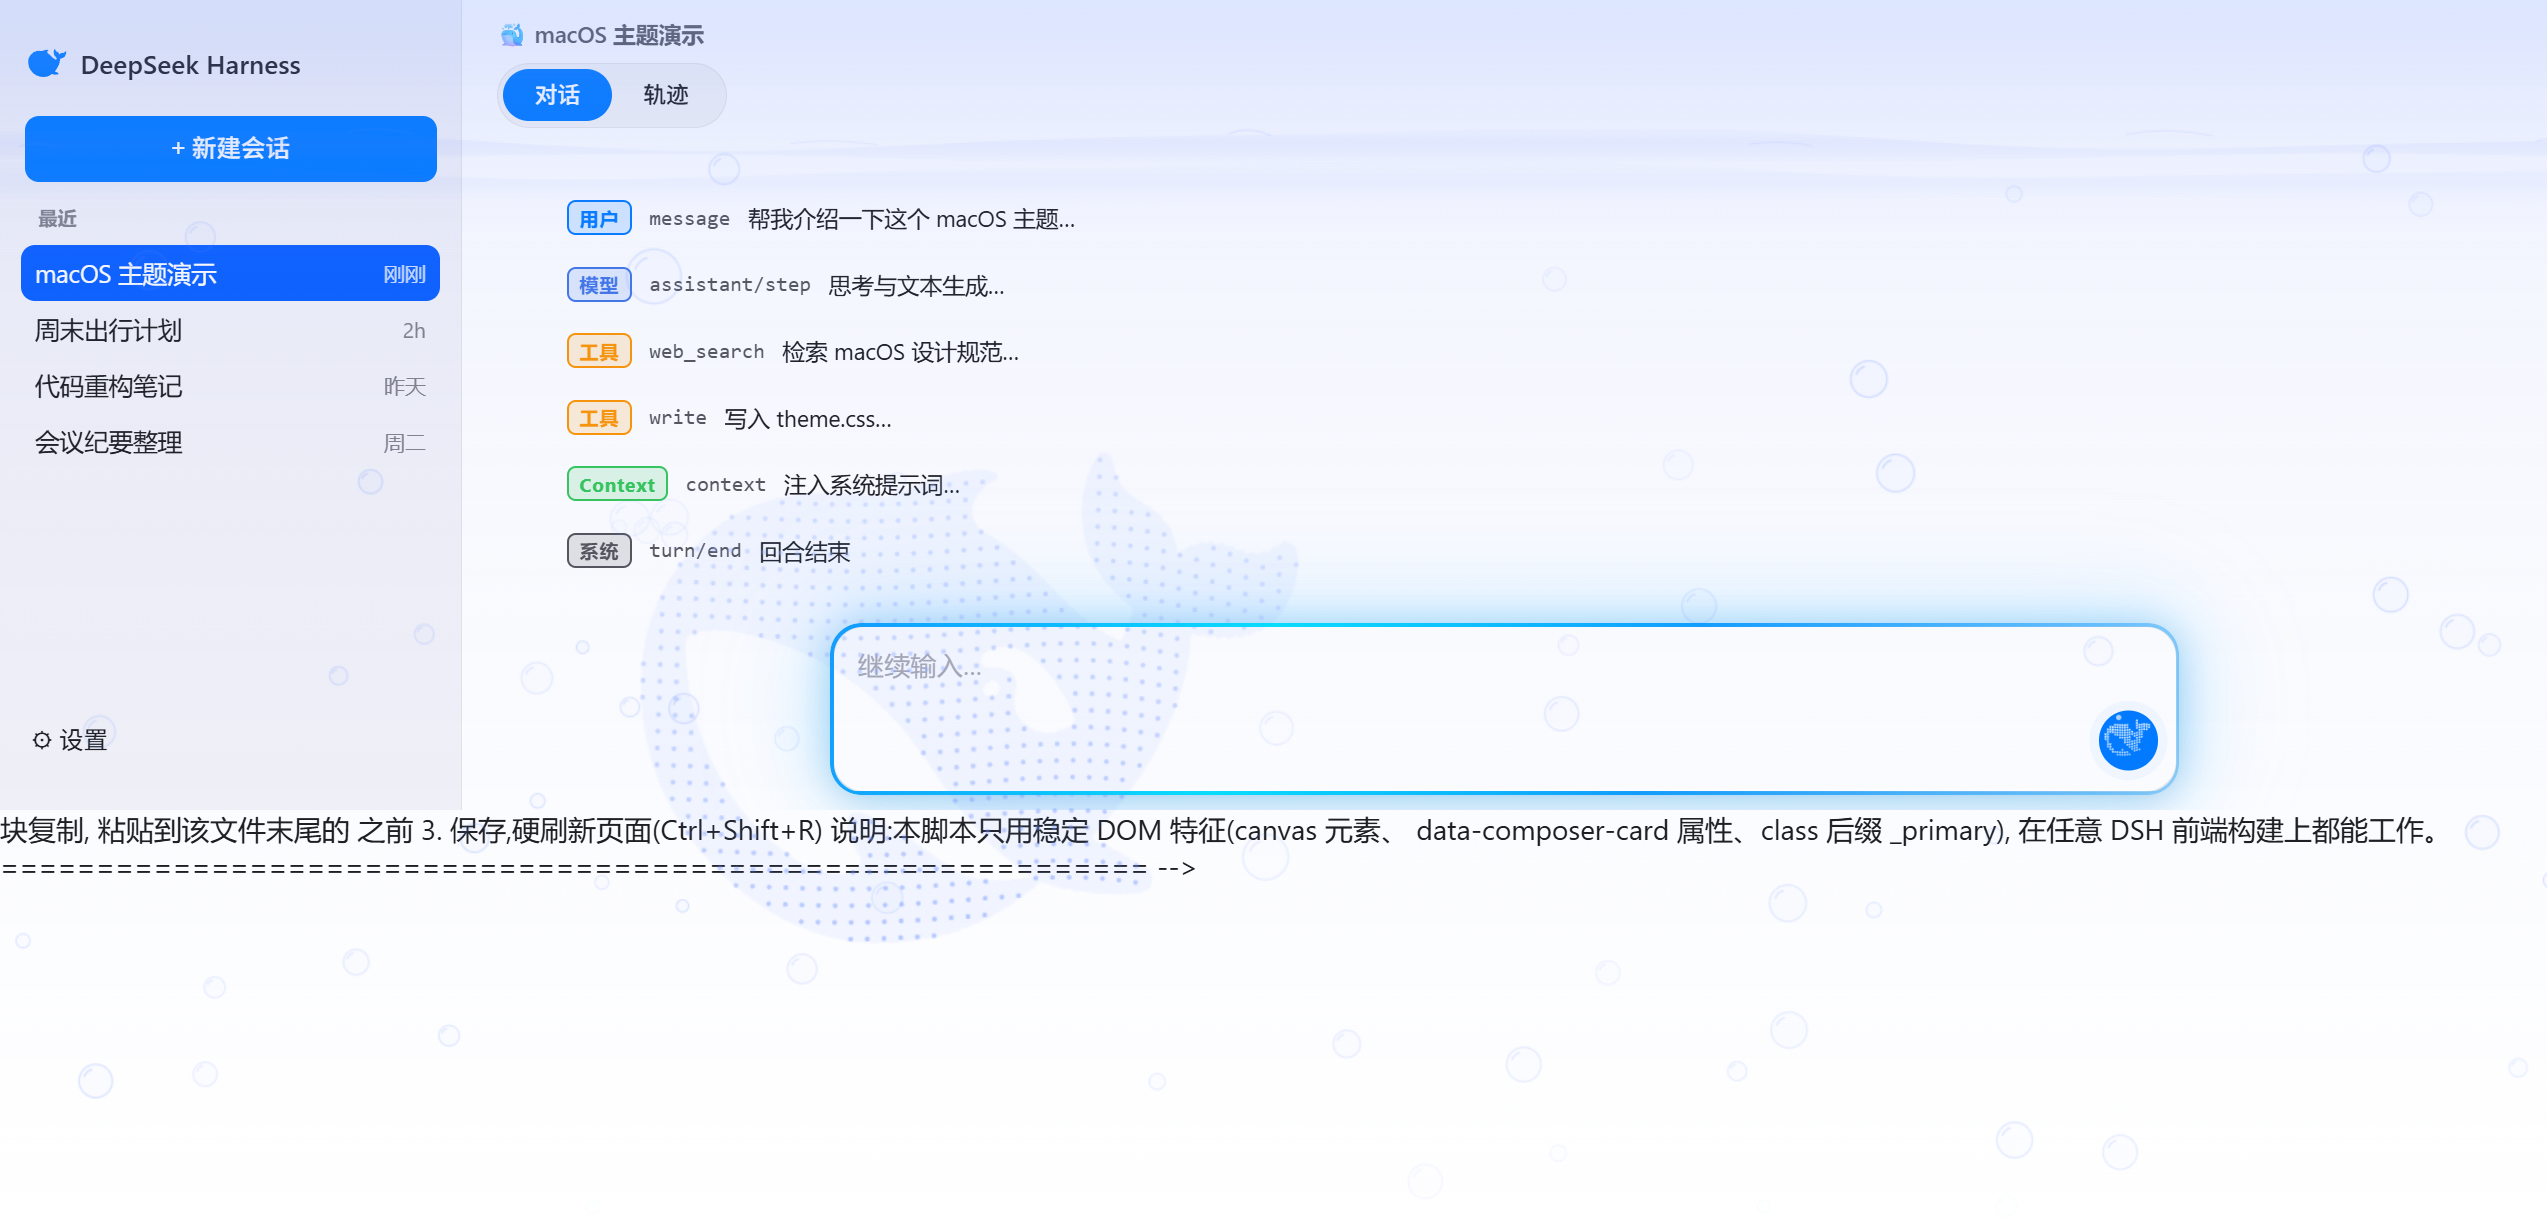
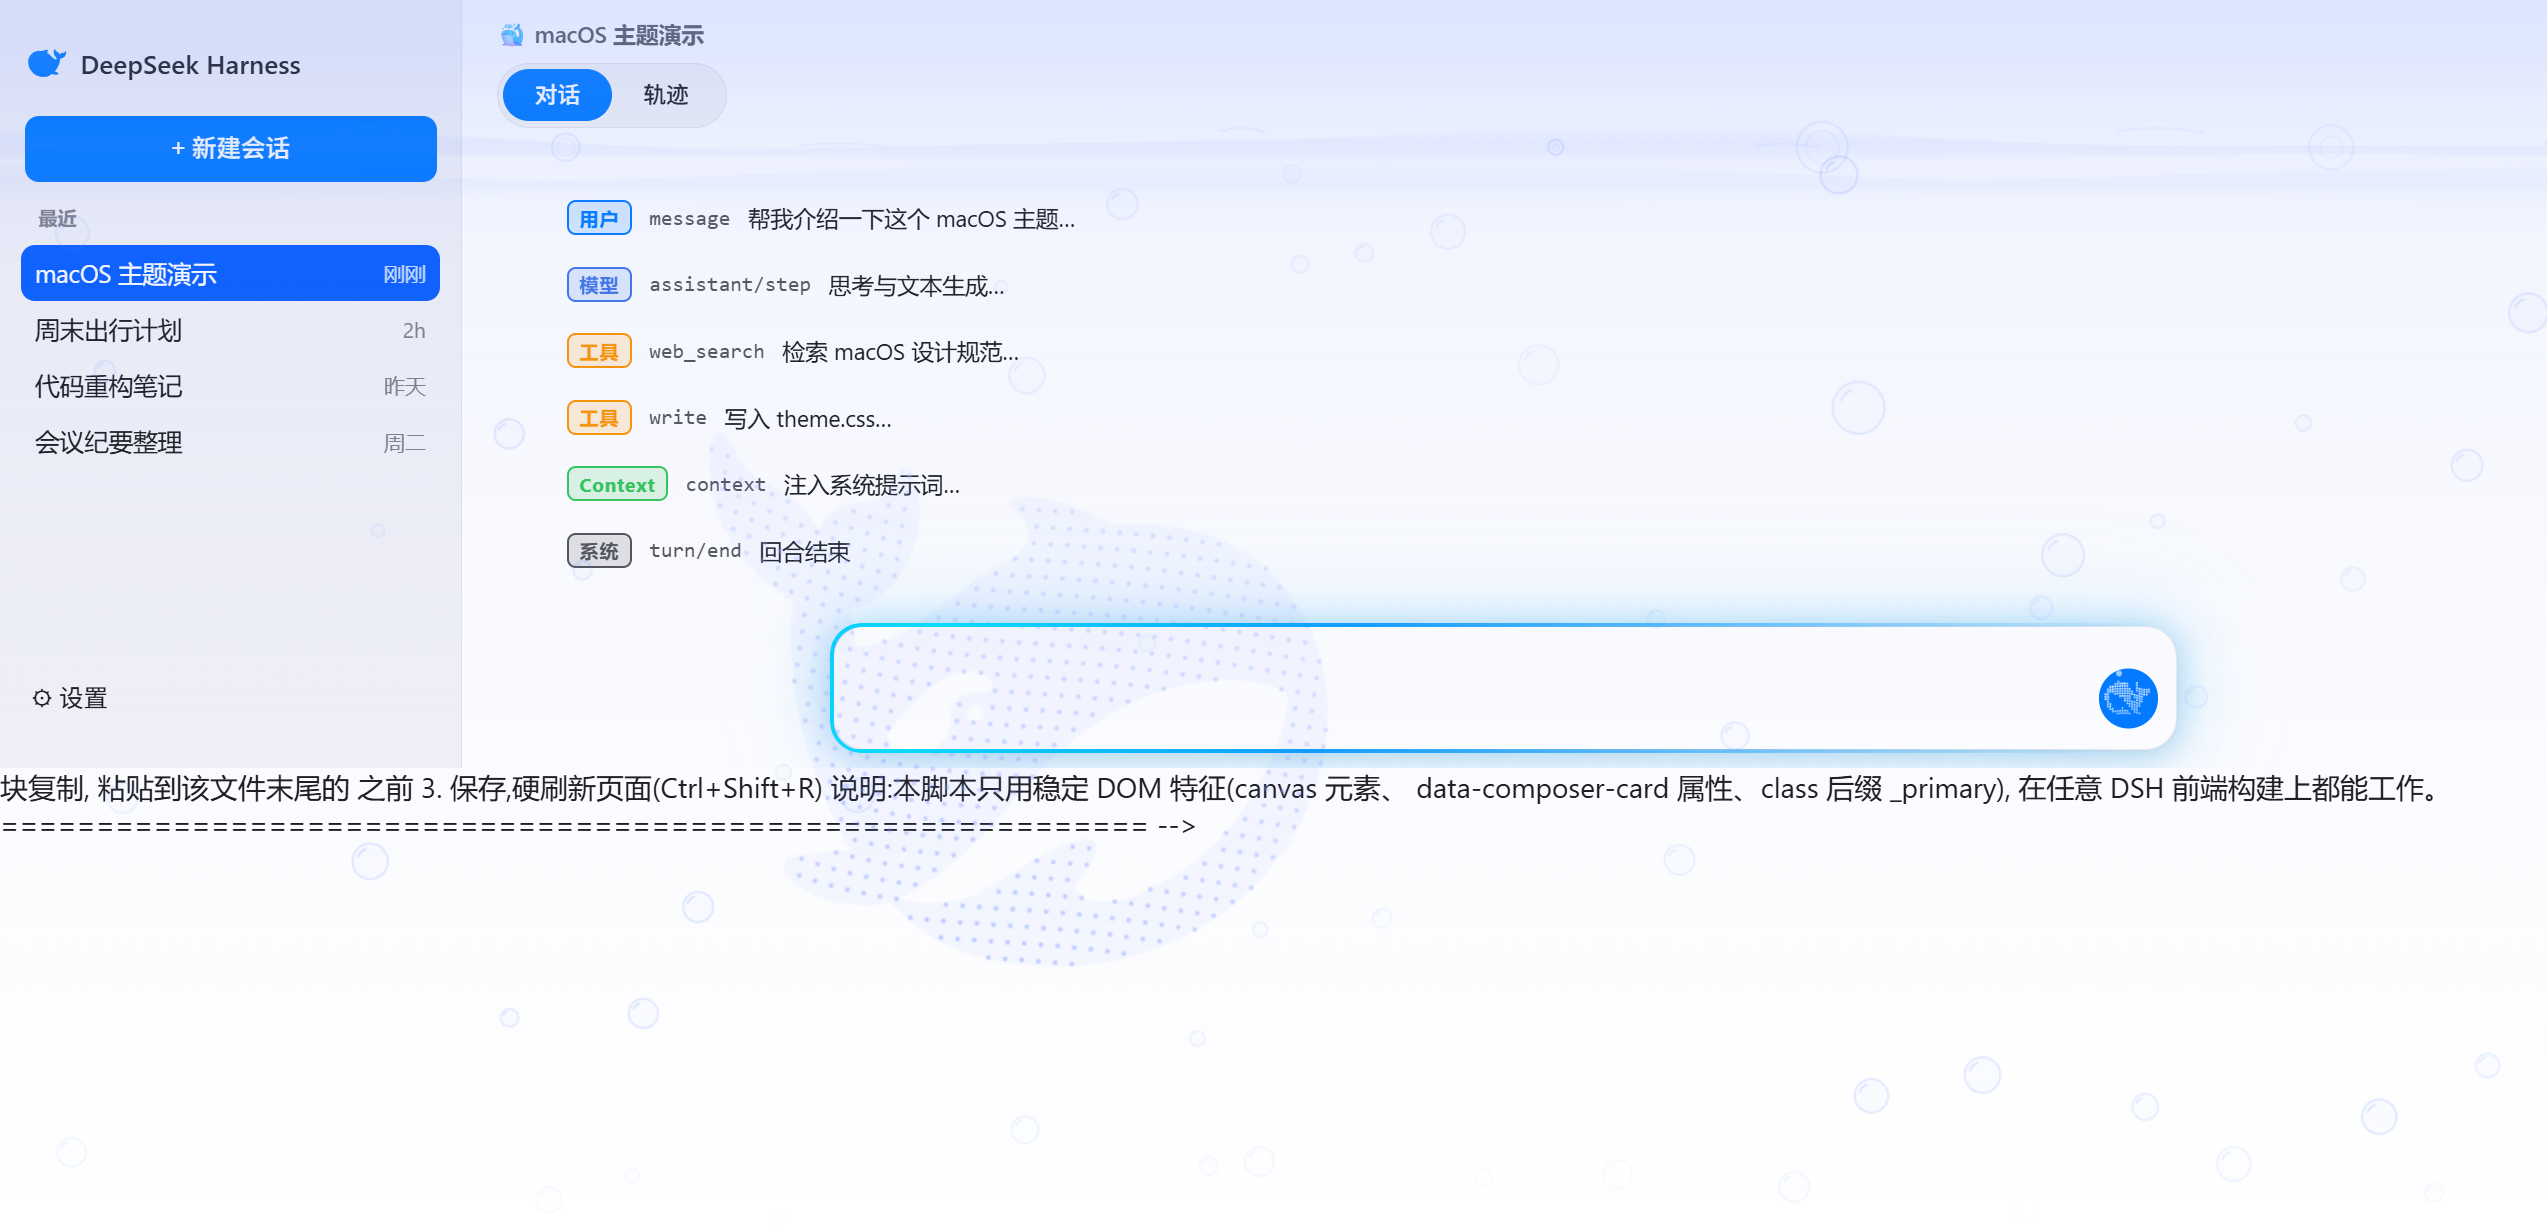
Retake light shot without agent overlay; add three button states (idle/typing/running)

Changed region(s): [[0.0, 0.4955, 0.9615, 0.7433], [0.3102, 0.4955, 0.4032, 0.5575]]

diff --git a/demo/preview.html b/demo/preview.html
@@ -138,13 +138,13 @@
           <div class="demo-traj-row"><span class="Y0dWHa_kindTag tag-sys">系统</span><span class="nm">turn/end</span><span style="flex:1;overflow:hidden;text-overflow:ellipsis;white-space:nowrap">回合结束</span></div>
         </div>
       </div>
-      <!-- 输入框(运行态:停止图标 → 触发喷水+水母发光) -->
+      <!-- 输入框(状态由 ?btn=idle|typing|running 切换,默认 running) -->
       <div class="demo-composer">
         <div class="uV2eYG_card" data-composer-card>
-          <div class="demo-placeholder">继续输入…</div>
+          <div class="demo-placeholder" id="demo-composer-text"></div>
           <div class="demo-row">
             <span></span>
-            <button type="button" class="uV2eYG_primary" aria-label="停止">
+            <button type="button" class="uV2eYG_primary" id="demo-send-btn" aria-label="停止">
               <svg viewBox="0 0 16 16" width="16" height="16" aria-hidden="true"><rect x="3" y="3" width="10" height="10" rx="3" fill="currentColor"/></svg>
             </button>
           </div>
@@ -180,7 +180,7 @@
   </div>
 </div>
 <script>
-/* 视图/主题切换:?dark=1 深色;?view=settings|traj */
+/* 视图/主题切换:?dark=1 深色;?view=settings|traj;?btn=idle|typing|running 按钮状态 */
 (function () {
   var q = new URLSearchParams(location.search);
   if (q.get('dark') === '1') {
@@ -193,6 +193,20 @@
   var settings = document.getElementById('view-settings');
   if (v === 'traj') { chat.classList.add('hidden'); traj.classList.remove('hidden'); }
   if (v === 'settings') { settings.classList.remove('hidden'); }
+  var b = q.get('btn');
+  var btnEl = document.getElementById('demo-send-btn');
+  var textEl = document.getElementById('demo-composer-text');
+  if (b === 'idle' || b === 'typing') {
+    btnEl.innerHTML = '<svg viewBox="0 0 16 16" width="16" height="16" aria-hidden="true"><path d="M2 2l12 6-12 6V9.6L9.5 8 2 6.4z" fill="currentColor"/></svg>';
+    btnEl.setAttribute('aria-label', '发送');
+    if (b === 'typing') {
+      textEl.textContent = '帮我介绍一下这个 macOS 主题都有哪些特性?';
+      textEl.style.color = 'var(--dsw-alias-label-primary,#1D1D1F)';
+    } else {
+      textEl.textContent = '继续输入…';
+      textEl.style.color = '';
+    }
+  }
 })();
 </script>
 <script> ... </script> 块复制,

diff --git a/README.md b/README.md
@@ -15,9 +15,19 @@
 
 ![浅色模式](screenshots/light.png)
 
-### 鲸鱼发送按钮(特写)
+### 鲸鱼发送按钮(三种状态)
 
-![鲸鱼发送按钮](screenshots/button.png)
+未发送(空闲,静态鲸鱼):
+
+![未发送](screenshots/button-idle.png)
+
+输入文字时(鲸鱼保持静态,仅输入框有内容):
+
+![输入文字](screenshots/button-typing.png)
+
+发送之后(运行中:摆尾游动 + 喷水泡 + 蓝色呼吸光环 + 水母发光):
+
+![发送之后](screenshots/button-running.png)
 
 ### 深色模式
 
